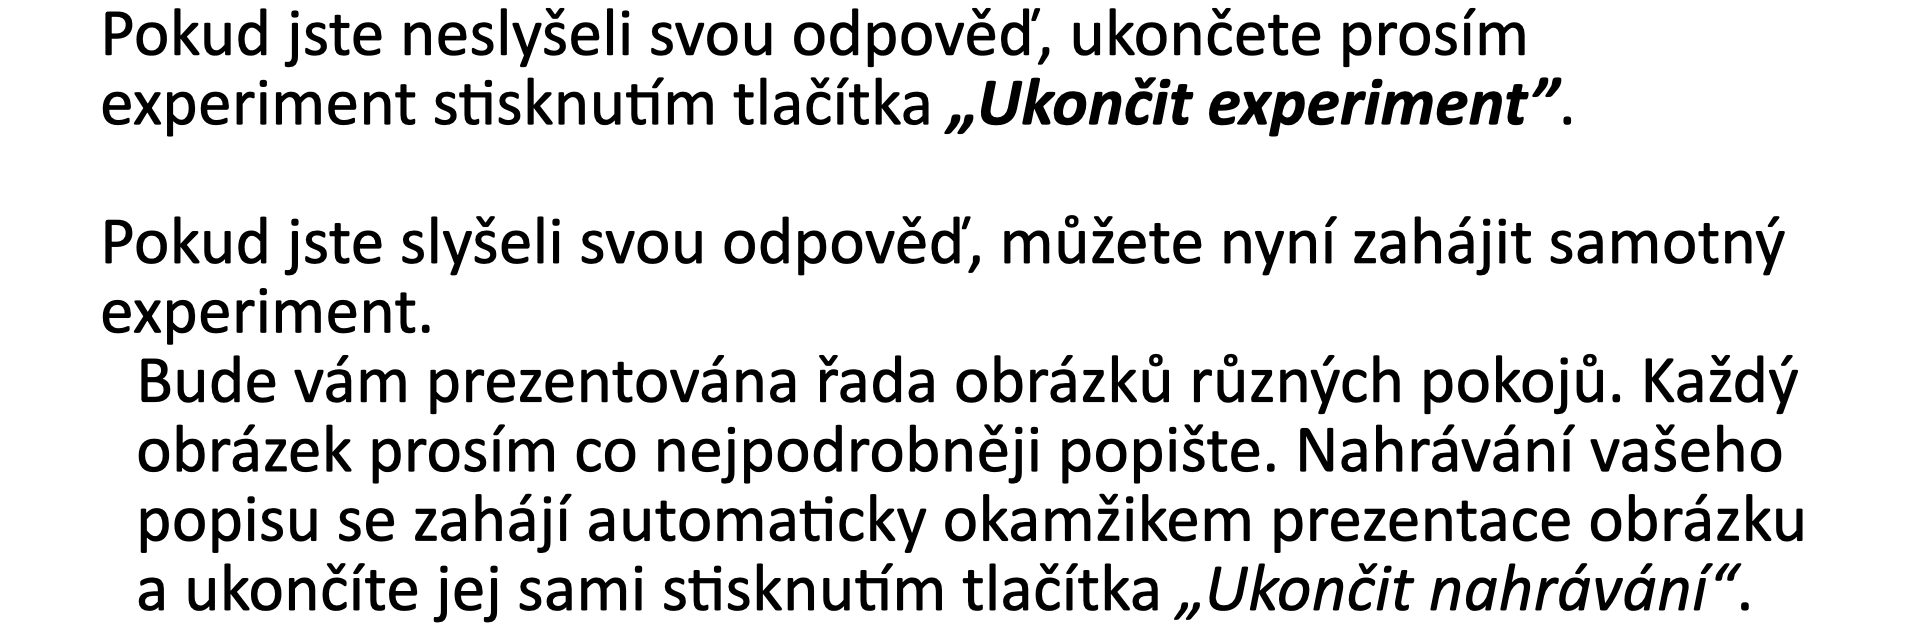
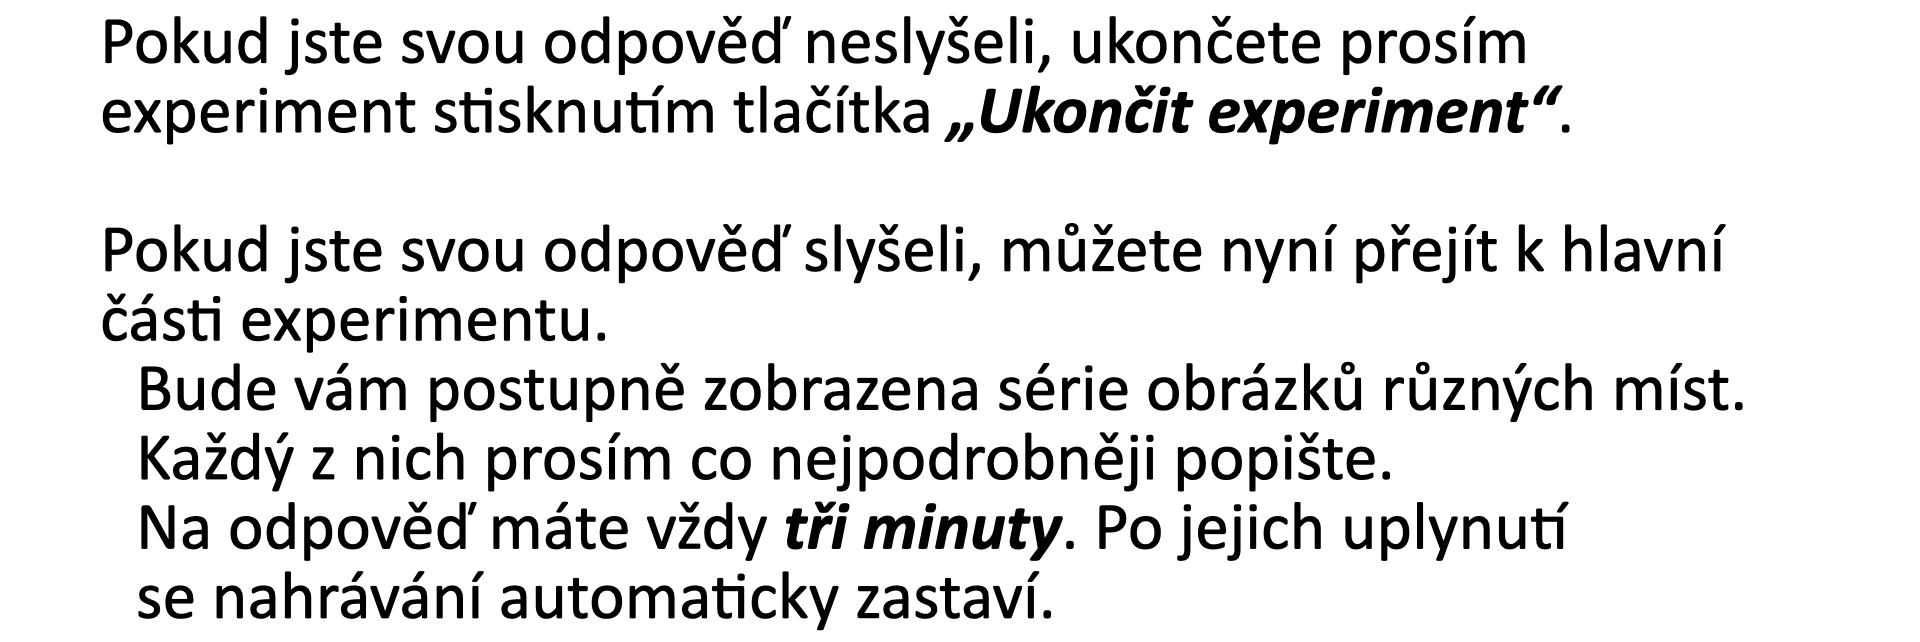
Quality of life changes (for participants).

diff --git a/jspsych/plugin-html-keyboard-response.js b/jspsych/plugin-html-keyboard-response.js
@@ -1,0 +1,183 @@
+var jsPsychHtmlKeyboardResponse = (function (jspsych) {
+  'use strict';
+
+  var version = "2.1.0";
+
+  const info = {
+    name: "html-keyboard-response",
+    version,
+    parameters: {
+      /**
+       * The string to be displayed.
+       */
+      stimulus: {
+        type: jspsych.ParameterType.HTML_STRING,
+        default: void 0
+      },
+      /**
+       * This array contains the key(s) that the participant is allowed to press in order to respond
+       * to the stimulus. Keys should be specified as characters (e.g., `'a'`, `'q'`, `' '`, `'Enter'`, `'ArrowDown'`) - see
+       * {@link https://developer.mozilla.org/en-US/docs/Web/API/UI_Events/Keyboard_event_key_values this page}
+       * and
+       * {@link https://www.freecodecamp.org/news/javascript-keycode-list-keypress-event-key-codes/ this page (event.key column)}
+       * for more examples. Any key presses that are not listed in the
+       * array will be ignored. The default value of `"ALL_KEYS"` means that all keys will be accepted as valid responses.
+       * Specifying `"NO_KEYS"` will mean that no responses are allowed.
+       */
+      choices: {
+        type: jspsych.ParameterType.KEYS,
+        default: "ALL_KEYS"
+      },
+      /**
+       * This string can contain HTML markup. Any content here will be displayed below the stimulus.
+       * The intention is that it can be used to provide a reminder about the action the participant
+       * is supposed to take (e.g., which key to press).
+       */
+      prompt: {
+        type: jspsych.ParameterType.HTML_STRING,
+        default: null
+      },
+      /**
+       * How long to display the stimulus in milliseconds. The visibility CSS property of the stimulus
+       * will be set to `hidden` after this time has elapsed. If this is null, then the stimulus will
+       * remain visible until the trial ends.
+       */
+      stimulus_duration: {
+        type: jspsych.ParameterType.INT,
+        default: null
+      },
+      /**
+       * How long to wait for the participant to make a response before ending the trial in milliseconds.
+       * If the participant fails to make a response before this timer is reached, the participant's response
+       * will be recorded as null for the trial and the trial will end. If the value of this parameter is null,
+       * then the trial will wait for a response indefinitely.
+       */
+      trial_duration: {
+        type: jspsych.ParameterType.INT,
+        default: null
+      },
+      /**
+       * If true, then the trial will end whenever the participant makes a response (assuming they make their
+       * response before the cutoff specified by the trial_duration parameter). If false, then the trial will
+       * continue until the value for trial_duration is reached. You can set this parameter to false to force
+       * the participant to view a stimulus for a fixed amount of time, even if they respond before the time is complete.
+       */
+      response_ends_trial: {
+        type: jspsych.ParameterType.BOOL,
+        default: true
+      }
+    },
+    data: {
+      /** Indicates which key the participant pressed. */
+      response: {
+        type: jspsych.ParameterType.STRING
+      },
+      /** The response time in milliseconds for the participant to make a response. The time is measured from when the stimulus first appears on the screen until the participant's response. */
+      rt: {
+        type: jspsych.ParameterType.INT
+      },
+      /** The HTML content that was displayed on the screen. */
+      stimulus: {
+        type: jspsych.ParameterType.STRING
+      }
+    },
+    // prettier-ignore
+    citations: {
+      "apa": "de Leeuw, J. R., Gilbert, R. A., & Luchterhandt, B. (2023). jsPsych: Enabling an Open-Source Collaborative Ecosystem of Behavioral Experiments. Journal of Open Source Software, 8(85), 5351. https://doi.org/10.21105/joss.05351 ",
+      "bibtex": '@article{Leeuw2023jsPsych, 	author = {de Leeuw, Joshua R. and Gilbert, Rebecca A. and Luchterhandt, Bj{\\" o}rn}, 	journal = {Journal of Open Source Software}, 	doi = {10.21105/joss.05351}, 	issn = {2475-9066}, 	number = {85}, 	year = {2023}, 	month = {may 11}, 	pages = {5351}, 	publisher = {Open Journals}, 	title = {jsPsych: Enabling an {Open}-{Source} {Collaborative} {Ecosystem} of {Behavioral} {Experiments}}, 	url = {https://joss.theoj.org/papers/10.21105/joss.05351}, 	volume = {8}, }  '
+    }
+  };
+  class HtmlKeyboardResponsePlugin {
+    constructor(jsPsych) {
+      this.jsPsych = jsPsych;
+    }
+    static {
+      this.info = info;
+    }
+    trial(display_element, trial) {
+      var new_html = '<div id="jspsych-html-keyboard-response-stimulus">' + trial.stimulus + "</div>";
+      if (trial.prompt !== null) {
+        new_html += trial.prompt;
+      }
+      display_element.innerHTML = new_html;
+      var response = {
+        rt: null,
+        key: null
+      };
+      const end_trial = () => {
+        if (typeof keyboardListener !== "undefined") {
+          this.jsPsych.pluginAPI.cancelKeyboardResponse(keyboardListener);
+        }
+        var trial_data = {
+          rt: response.rt,
+          stimulus: trial.stimulus,
+          response: response.key
+        };
+        this.jsPsych.finishTrial(trial_data);
+      };
+      var after_response = (info2) => {
+        display_element.querySelector("#jspsych-html-keyboard-response-stimulus").className += " responded";
+        if (response.key == null) {
+          response = info2;
+        }
+        if (trial.response_ends_trial) {
+          end_trial();
+        }
+      };
+      if (trial.choices != "NO_KEYS") {
+        var keyboardListener = this.jsPsych.pluginAPI.getKeyboardResponse({
+          callback_function: after_response,
+          valid_responses: trial.choices,
+          rt_method: "performance",
+          persist: false,
+          allow_held_key: false
+        });
+      }
+      if (trial.stimulus_duration !== null) {
+        this.jsPsych.pluginAPI.setTimeout(() => {
+          display_element.querySelector(
+            "#jspsych-html-keyboard-response-stimulus"
+          ).style.visibility = "hidden";
+        }, trial.stimulus_duration);
+      }
+      if (trial.trial_duration !== null) {
+        this.jsPsych.pluginAPI.setTimeout(end_trial, trial.trial_duration);
+      }
+    }
+    simulate(trial, simulation_mode, simulation_options, load_callback) {
+      if (simulation_mode == "data-only") {
+        load_callback();
+        this.simulate_data_only(trial, simulation_options);
+      }
+      if (simulation_mode == "visual") {
+        this.simulate_visual(trial, simulation_options, load_callback);
+      }
+    }
+    create_simulation_data(trial, simulation_options) {
+      const default_data = {
+        stimulus: trial.stimulus,
+        rt: this.jsPsych.randomization.sampleExGaussian(500, 50, 1 / 150, true),
+        response: this.jsPsych.pluginAPI.getValidKey(trial.choices)
+      };
+      const data = this.jsPsych.pluginAPI.mergeSimulationData(default_data, simulation_options);
+      this.jsPsych.pluginAPI.ensureSimulationDataConsistency(trial, data);
+      return data;
+    }
+    simulate_data_only(trial, simulation_options) {
+      const data = this.create_simulation_data(trial, simulation_options);
+      this.jsPsych.finishTrial(data);
+    }
+    simulate_visual(trial, simulation_options, load_callback) {
+      const data = this.create_simulation_data(trial, simulation_options);
+      const display_element = this.jsPsych.getDisplayElement();
+      this.trial(display_element, trial);
+      load_callback();
+      if (data.rt !== null) {
+        this.jsPsych.pluginAPI.pressKey(data.response, data.rt);
+      }
+    }
+  }
+
+  return HtmlKeyboardResponsePlugin;
+
+})(jsPsychModule);

diff --git a/configuration/texts.js b/configuration/texts.js
@@ -6,7 +6,7 @@ var cbar_txt, prev_txt, next_txt, excl_txt, cont_txt, micro_txt, choose_txt, rec
 repeat_txt, accept_txt, check_txt, start_txt, finish_txt, sex_drop, instruct, rec_dur;
 
 // Maximal duration of answer recording:
-rec_dur = 120000;
+rec_dur = 180000;
 
 // Depending on the language, assign values:
 if (tongue === 'CZE') {
@@ -15,8 +15,10 @@ if (tongue === 'CZE') {
   prev_txt = 'Předchozí';
   next_txt = 'Další';
   excl_txt = '<p>Tento experiment je možné spustit pouze na počítači.</p>';
+  safari_txt = '<p>Tento experiment nelze spustit na Safari.</br>Zvolte prosím jiný prohlížeč (např. Mozilla Firefox, Google Chrome či Opera).</p>';
   cont_txt = 'Pokračovat';
   choose_txt = 'Použít tento mikrofon.';
+  begin_txt = 'Zahájit nahrávání';
   rec_txt = 'Ukončit nahrávání';
   repeat_txt = 'Nahrát znovu';
   accept_txt = 'Pokračovat';
@@ -41,6 +43,7 @@ if (tongue === 'CZE') {
     'instruct/microphone_CZ.png',
     'instruct/check_CZ.png',
     'instruct/start_CZ.png',
+    'instruct/begin_CZ.png',
     'instruct/trial_CZ.png',
     'instruct/finish_CZ.png',
     'instruct/termination_CZ.png'
@@ -52,8 +55,10 @@ if (tongue === 'CZE') {
   prev_txt = 'Previous';
   next_txt = 'Next';
   excl_txt = '<p>You must use a desktop/laptop computer to participate in this experiment.</p>';
+  safari_txt = '<p>This experiments does not work in Safari!</br>Please, use a different browser (e.g., Mozilla Firefox, Google Chrome or Opera).</p>';
   cont_txt = 'Next';
   choose_txt = 'Use this microphone.';
+  begin_txt = 'Initate recording';
   rec_txt = 'Finish recording';
   repeat_txt = 'Try again';
   accept_txt = 'Continue';
@@ -78,6 +83,7 @@ if (tongue === 'CZE') {
     'instruct/microphone_ENG.png',
     'instruct/check_ENG.png',
     'instruct/start_ENG.png',
+    'instruct/begin_ENG.png',
     'instruct/trial_ENG.png',
     'instruct/finish_ENG.png',
     'instruct/termination_ENG.png'
@@ -106,6 +112,7 @@ var info_img = `<p><img src="${instruct[5]}" ${imgStyle1}/></p>`;
 var micr_img = `<p><img src="${instruct[6]}" ${imgStyle3}/></p>`;
 var chec_img = `<p><img src="${instruct[7]}" ${imgStyle1}/></p>`;
 var star_img = `<p><img src="${instruct[8]}" ${imgStyle3}"/></p>`;
-var tria_img = `<p><img src="${instruct[9]}" ${imgStyle4}/></p>`;
-var fini_img = `<p><img src="${instruct[10]}" ${imgStyle3}"/></p>`;
-var term_img = `<p><img src="${instruct[11]}" ${imgStyle0}/></p>`;
+var begi_img = `<p><img src="${instruct[9]}" ${imgStyle4}"/></p>`;
+var tria_img = `<p><img src="${instruct[10]}" ${imgStyle4}/></p>`;
+var fini_img = `<p><img src="${instruct[11]}" ${imgStyle3}"/></p>`;
+var term_img = `<p><img src="${instruct[12]}" ${imgStyle0}/></p>`;

diff --git a/index.html b/index.html
@@ -9,6 +9,7 @@
     <script src="jspsych/plugin-instructions.js"></script>
     <script src="jspsych/plugin-survey-html-form.js"></script>
     <script src="jspsych/plugin-html-button-response.js"></script>
+    <script src="jspsych/plugin-html-keyboard-response.js"></script>
     <script src="jspsych/plugin-initialize-microphone.js"></script>
     <script src="jspsych/plugin-fullscreen.js"></script>
     <script src="jspsych/plugin-html-audio-response.js"></script>
@@ -71,8 +72,10 @@
         return (data.mobile === false && data.browser !== "safari")
       },
       exclusion_message: (data) => {
-        if(data.mobile || data.browser === "safari") {
+        if(data.mobile) {
         return excl_txt;
+        } else if(data.browser === "safari") {
+          return safari_txt;
         }
       }
     };
@@ -110,7 +113,7 @@
     /* Record the stimuli order in the jsPsych data */
     jsPsych.data.addProperties({
       participant_id: expID,
-      stimuli: stimuli
+      protocol: stimuli
     });
     
     /* Save metadata via DataPipe before recording starts */
@@ -139,6 +142,15 @@
       button_label: choose_txt
     };
     timeline.push(setup);
+    
+    /* Set-up manual beginning of recording */
+    var begin = {
+      type: jsPsychHtmlButtonResponse,
+      stimulus: begi_img,
+      choices: [begin_txt],
+      trial_duration: 60000
+    };
+    timeline.push(begin);
 
     /* Record the warm-up data */
     var warmup = {
@@ -180,6 +192,8 @@
 
     /* Find number of trials */
     var ntrials = images.length - 1
+    
+    /* Manually */
 
     /* Record the data */
     var record = {
@@ -199,19 +213,27 @@
 
     /* Define test procedure */
     var procedure = {
-      timeline: [record],
+      timeline: [begin, record],
       timeline_variables: stimuli,
-      randomize_order: true,
+      randomize_order: false,
       repetitions: 1
     };
     timeline.push(procedure);
+    
+    /* Exit fullscreen mode */
+    var exit_fullscreen = {
+      type: jsPsychFullscreen,
+      message: star_img,
+      fullscreen_mode: false
+    };
+    timeline.push(exit_fullscreen);
 
     /* Finish the experiment */
     var farewell = {
-      type: jsPsychHtmlButtonResponse,
+      type: jsPsychHtmlKeyboardResponse,
       stimulus: fini_img,
-      choices: [finish_txt],
-      trial_duration: 10000
+      choices: 'NO_KEYS',
+      trial_duration: 180000
     };
     timeline.push(farewell);
 
